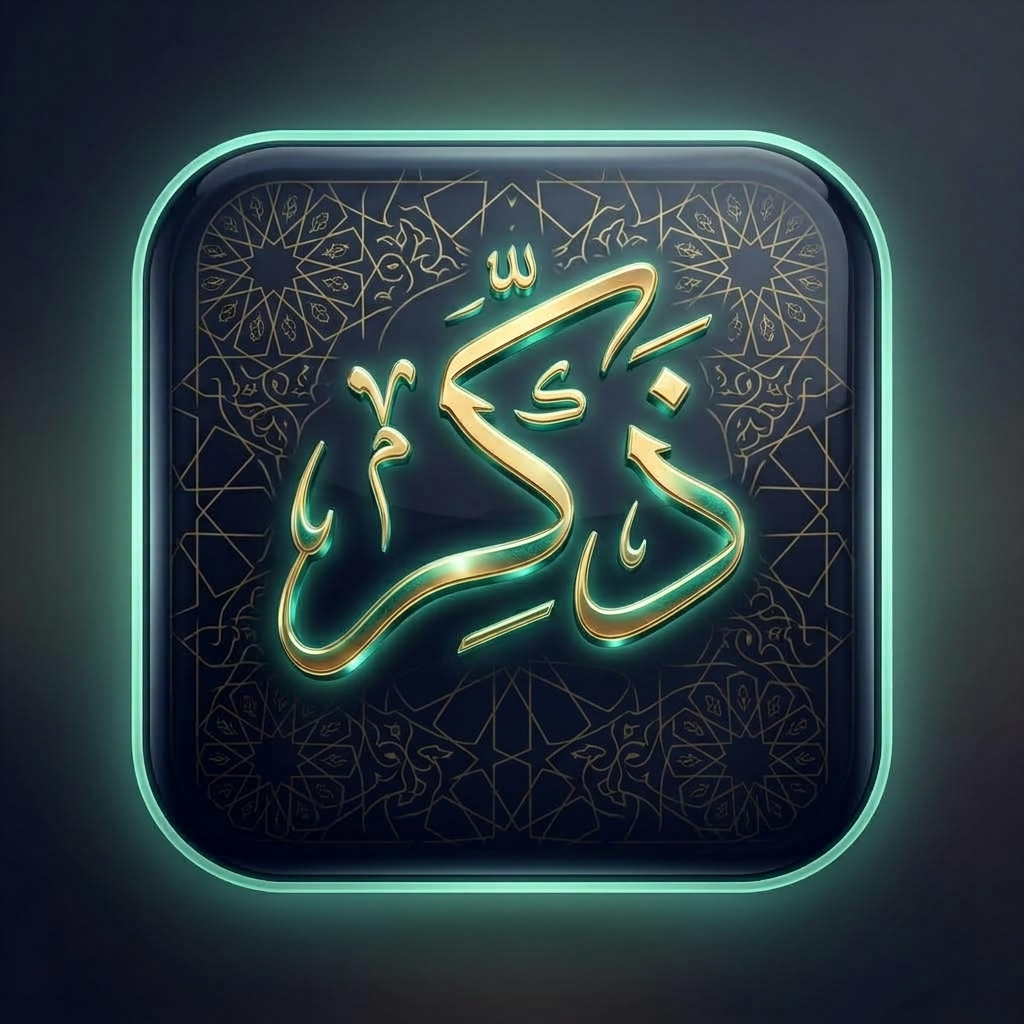
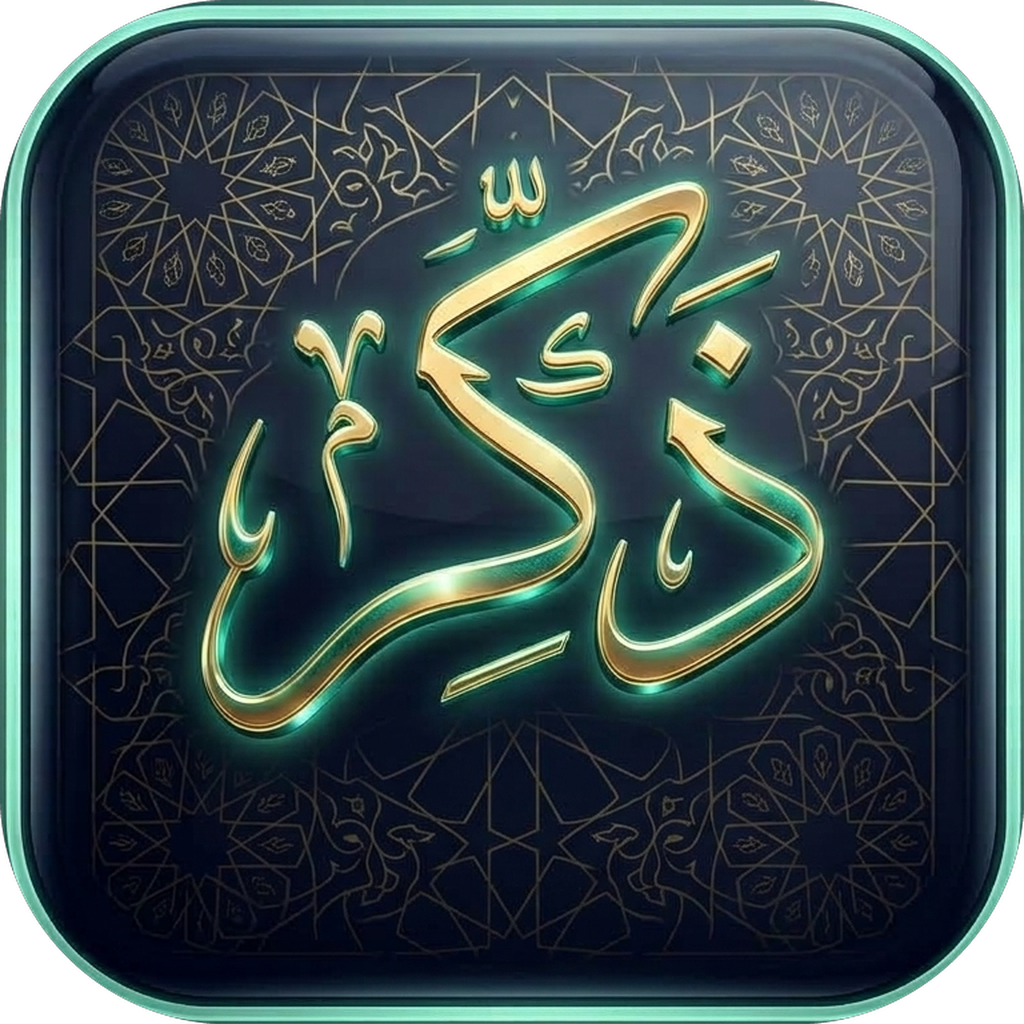
deploy: 109716d94c52f35b1659cc7edeb3c49411d5df95

diff --git a/sw.js b/sw.js
@@ -1,1 +1,1 @@
-if(!self.define){let e,i={};const n=(n,s)=>(n=new URL(n+".js",s).href,i[n]||new Promise(i=>{if("document"in self){const e=document.createElement("script");e.src=n,e.onload=i,document.head.appendChild(e)}else e=n,importScripts(n),i()}).then(()=>{let e=i[n];if(!e)throw new Error(`Module ${n} didn’t register its module`);return e}));self.define=(s,r)=>{const a=e||("document"in self?document.currentScript.src:"")||location.href;if(i[a])return;let o={};const c=e=>n(e,a),t={module:{uri:a},exports:o,require:c};i[a]=Promise.all(s.map(e=>t[e]||c(e))).then(e=>(r(...e),o))}}define(["./workbox-63c18b4d"],function(e){"use strict";self.skipWaiting(),e.clientsClaim(),e.precacheAndRoute([{url:"registerSW.js",revision:"b3f5e6cf804fcbfcd714f35a0e532cdc"},{url:"index.html",revision:"e3d1ac3a0312f6b36deff3114b6c0f47"},{url:"icons.svg",revision:"3b4fcfcf393eca4d264dca4a4663bc37"},{url:"icon.png",revision:"71a10a3f340172b0f95e75b465a26966"},{url:"favicon.svg",revision:"e8678bc649315d64ceb18505c28099b6"},{url:"images/icon.png",revision:"71a10a3f340172b0f95e75b465a26966"},{url:"images/icon-512.png",revision:"71a10a3f340172b0f95e75b465a26966"},{url:"images/icon-192.png",revision:"71a10a3f340172b0f95e75b465a26966"},{url:"assets/index-kweCHyZp.js",revision:null},{url:"assets/index-B97R2Fmc.css",revision:null},{url:"assets/icon-DXW-4eAY.png",revision:null},{url:"assets/favicon-SECwf2ws.svg",revision:null},{url:"favicon.svg",revision:"e8678bc649315d64ceb18505c28099b6"},{url:"images/icon-192.png",revision:"71a10a3f340172b0f95e75b465a26966"},{url:"images/icon-512.png",revision:"71a10a3f340172b0f95e75b465a26966"},{url:"images/icon.png",revision:"71a10a3f340172b0f95e75b465a26966"},{url:"manifest.webmanifest",revision:"db983ae6b9675527696eb0d31db050b4"}],{}),e.cleanupOutdatedCaches(),e.registerRoute(new e.NavigationRoute(e.createHandlerBoundToURL("index.html"))),e.registerRoute(({url:e})=>("http:"===e.protocol||"https:"===e.protocol)&&e.href.includes("cdn.jsdelivr.net"),new e.CacheFirst({cacheName:"quran-images",plugins:[new e.ExpirationPlugin({maxEntries:700,maxAgeSeconds:7776e3}),new e.CacheableResponsePlugin({statuses:[0,200]})]}),"GET"),e.registerRoute(({url:e})=>("http:"===e.protocol||"https:"===e.protocol)&&e.href.includes("api.aladhan.com"),new e.NetworkFirst({cacheName:"prayer-times-api",plugins:[new e.ExpirationPlugin({maxEntries:30,maxAgeSeconds:43200}),new e.CacheableResponsePlugin({statuses:[0,200]})]}),"GET")});
+if(!self.define){let e,i={};const n=(n,s)=>(n=new URL(n+".js",s).href,i[n]||new Promise(i=>{if("document"in self){const e=document.createElement("script");e.src=n,e.onload=i,document.head.appendChild(e)}else e=n,importScripts(n),i()}).then(()=>{let e=i[n];if(!e)throw new Error(`Module ${n} didn’t register its module`);return e}));self.define=(s,c)=>{const r=e||("document"in self?document.currentScript.src:"")||location.href;if(i[r])return;let a={};const o=e=>n(e,r),t={module:{uri:r},exports:a,require:o};i[r]=Promise.all(s.map(e=>t[e]||o(e))).then(e=>(c(...e),a))}}define(["./workbox-63c18b4d"],function(e){"use strict";self.skipWaiting(),e.clientsClaim(),e.precacheAndRoute([{url:"registerSW.js",revision:"b3f5e6cf804fcbfcd714f35a0e532cdc"},{url:"index.html",revision:"e3d1ac3a0312f6b36deff3114b6c0f47"},{url:"icons.svg",revision:"3b4fcfcf393eca4d264dca4a4663bc37"},{url:"icon.png",revision:"a67992df186c8620098b8a6738513cba"},{url:"favicon.svg",revision:"e8678bc649315d64ceb18505c28099b6"},{url:"images/icon.png",revision:"a67992df186c8620098b8a6738513cba"},{url:"images/icon-512.png",revision:"e1c022ebc70725dd61c94662a6efef96"},{url:"images/icon-192.png",revision:"1ac38dd0e69f45b56fd011fdb2bc9da1"},{url:"assets/index-kweCHyZp.js",revision:null},{url:"assets/index-B97R2Fmc.css",revision:null},{url:"assets/icon-DXW-4eAY.png",revision:null},{url:"assets/favicon-SECwf2ws.svg",revision:null},{url:"favicon.svg",revision:"e8678bc649315d64ceb18505c28099b6"},{url:"images/icon-192.png",revision:"1ac38dd0e69f45b56fd011fdb2bc9da1"},{url:"images/icon-512.png",revision:"e1c022ebc70725dd61c94662a6efef96"},{url:"images/icon.png",revision:"a67992df186c8620098b8a6738513cba"},{url:"manifest.webmanifest",revision:"db983ae6b9675527696eb0d31db050b4"}],{}),e.cleanupOutdatedCaches(),e.registerRoute(new e.NavigationRoute(e.createHandlerBoundToURL("index.html"))),e.registerRoute(({url:e})=>("http:"===e.protocol||"https:"===e.protocol)&&e.href.includes("cdn.jsdelivr.net"),new e.CacheFirst({cacheName:"quran-images",plugins:[new e.ExpirationPlugin({maxEntries:700,maxAgeSeconds:7776e3}),new e.CacheableResponsePlugin({statuses:[0,200]})]}),"GET"),e.registerRoute(({url:e})=>("http:"===e.protocol||"https:"===e.protocol)&&e.href.includes("api.aladhan.com"),new e.NetworkFirst({cacheName:"prayer-times-api",plugins:[new e.ExpirationPlugin({maxEntries:30,maxAgeSeconds:43200}),new e.CacheableResponsePlugin({statuses:[0,200]})]}),"GET")});
